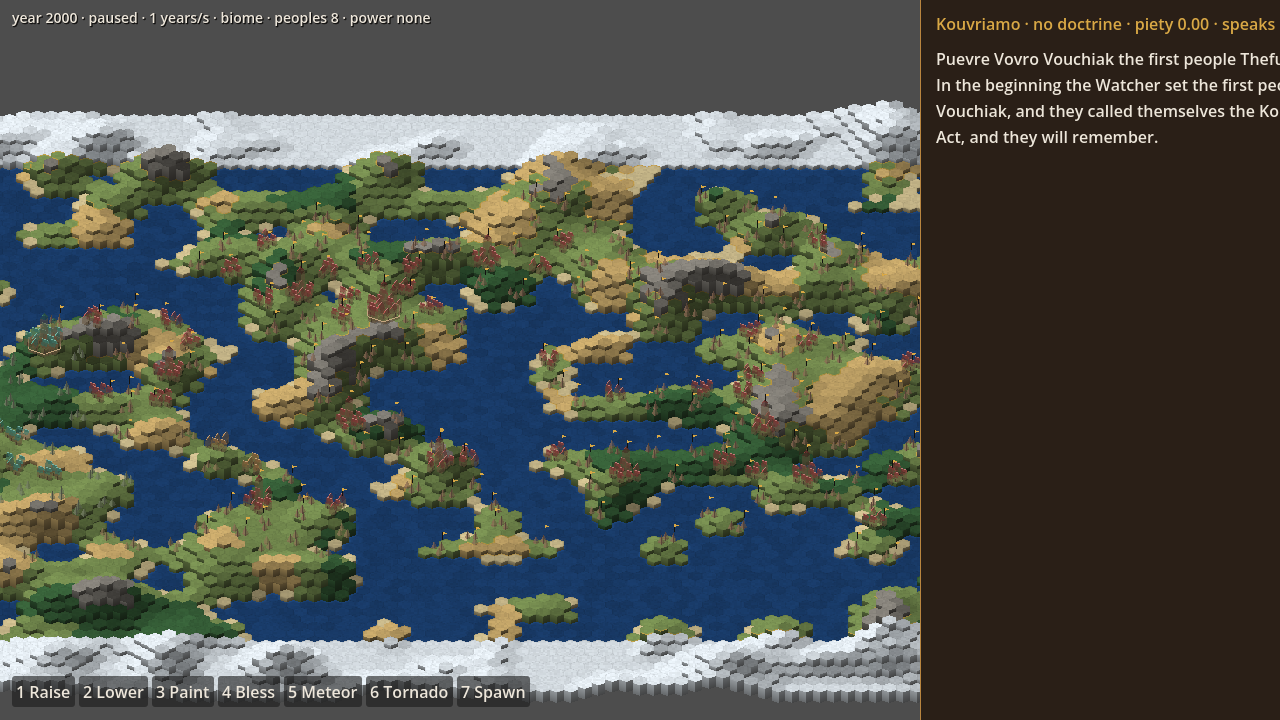
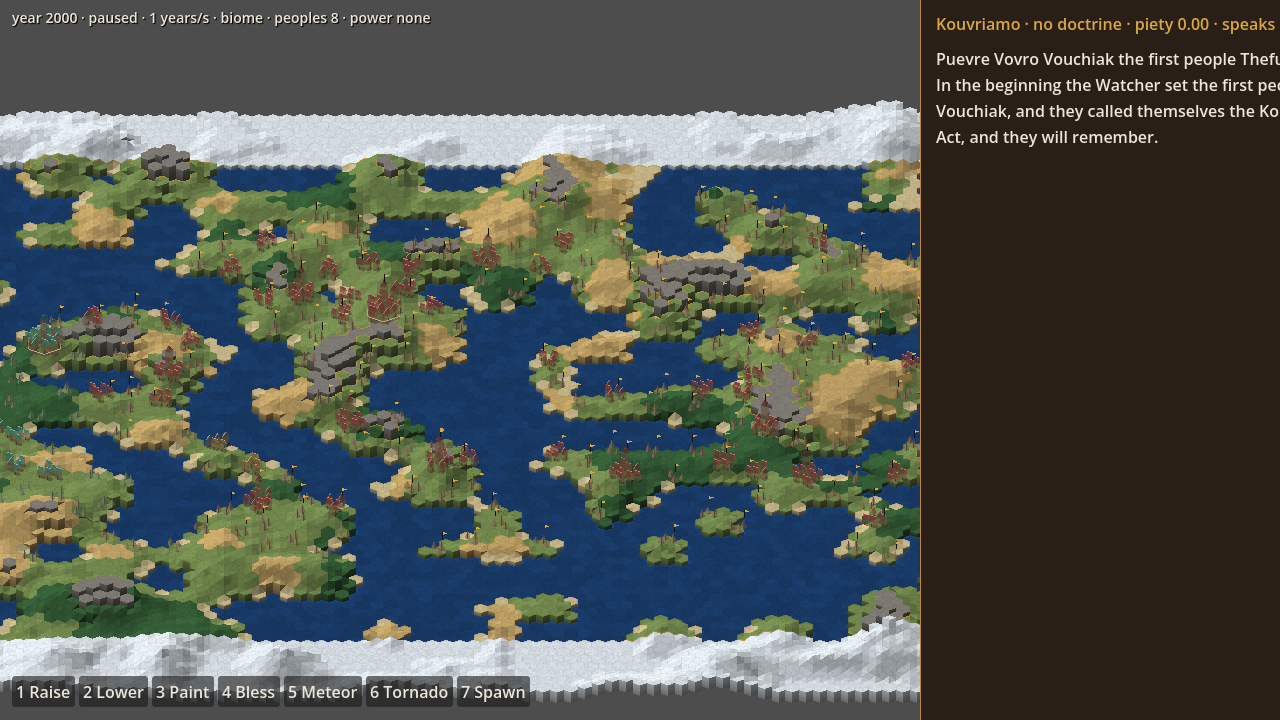
M6a: slope low land into its neighbors, keep cliffs for mountains and coasts
Each hex top corner now sits at the mean height of the three tiles that share
it when all three are non-mountain land within SLOPE_STEPS terraces, so the
land rolls instead of stepping. Mountains, the sea and steep drops keep their
cliff sides; walls now run from this tile's edge to the neighbor's matching
edge, so a half-sloped edge draws a triangle instead of a full step. Facets
take light from their real normals. Design Rendering section updated to match.

diff --git a/GAME_DESIGN.md b/GAME_DESIGN.md
@@ -89,7 +89,8 @@ The player's core role, chosen in this session: **guide a favorite people.** You
 - **Rendering:**
   - The map is one hex-column mesh, not an `Image`. Rust keeps returning one RGBA pixel per tile from `Sim.paint_overlay()`; Godot lays those colors onto a single `ArrayMesh` in which every tile is a pointy-top hexagon raised as a solid column. *(Revised 2026-10-27, second pass: the first renderer drew square diamonds on the hex grid, with no sides and per-tile height jitter; the user directed hex tiles with thickness and smoothed heights.)*
     - **Heights:** a land column's top is its elevation above sea level, softened toward the mean of its six neighbors and rounded to `HEIGHT_STEPS` terraces, so neighbors rise in readable ledges instead of jitter. Water tiles sit flat at sea level.
-    - **Thickness:** each column shows its two camera-facing sides (south-west and south-east) down to the top of the lower neighbor on that side, or to the floor along the map's south edge. Rows are emitted back to front, so nearer columns cover farther ones.
+    - **Slopes:** each top corner is shared by three tiles. Where all three are non-mountain land within `SLOPE_STEPS` terraces of one another, the corner sits at their mean height, so tops tilt into each other and the land rolls with no wall. Mountains, the sea and steeper drops keep their ledges. *(User direction 2026-10-27: "smooth toward the other land except for cliffs and mountains".)*
+    - **Thickness:** wherever a ledge remains, each column shows its two camera-facing sides (south-west and south-east) down to the top of the lower neighbor on that side, or to the floor along the map's south edge. Rows are emitted back to front, so nearer columns cover farther ones.
     - **Light** is baked per vertex on the CPU from the terraced height field: tops shade by slope toward the art bible's upper-left light, south-west sides are lit and south-east sides fall in shadow. One `ShaderMaterial` adds only the time-based and overlay terms: a slow ripple on water, a wet rim at coastlines, an antique-gold edge on the Chosen's tiles, and the night pass with the beacon. No TileMapLayer.
   - Repaint is gated on `Sim.revision()` (R6): the color texture updates only when a tick ran or an action applied; geometry rebuilds when a Raise or Lower changed heights, which is valid because powers apply only at tick boundaries (D9).
   - **Settlements are buildings, not glyphs or markers.** Each settlement is a cluster of small procedural houses drawn with polygons — a box with a lit wall, a shaded wall and a pitched roof — standing on its founding tile's top in a y-sorted node, so nearer buildings cover farther ones.
